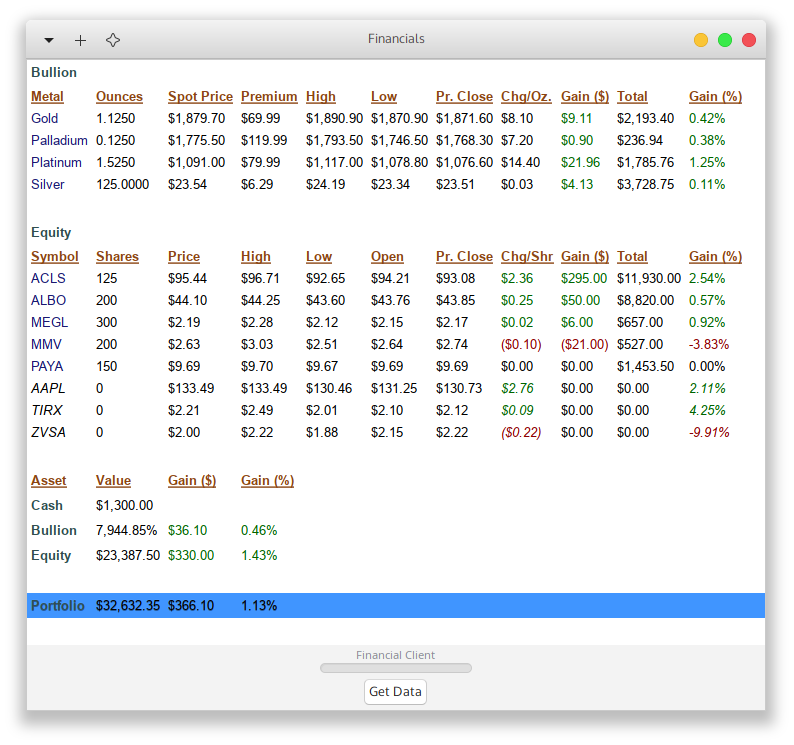
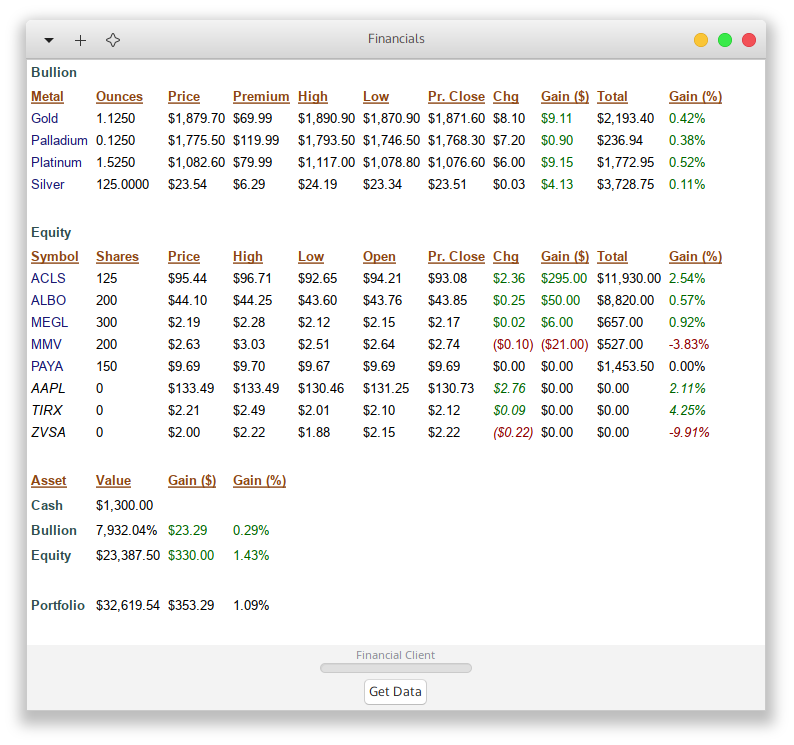
Combined two heading strings on primary view, changed one image file

diff --git a/src/class/class_meta.c b/src/class/class_meta.c
@@ -325,15 +325,11 @@ static void ToStringsIndices() {
    they match similar names within the struct definitions
    (in class_types.h). */
 static primary_heading primary_headings = {
-    "Bullion",    "Metal",     "Ounces",
-    "Spot Price", "Premium",   "High",
-    "Low",        "Pr. Close", "Chg/Oz.",
-    "Gain ($)",   "Total",     "Gain (%)",
-    "Gold",       "Silver",    "Platinum",
-    "Palladium",  "Equity",    "Symbol",
-    "Shares",     "Price",     "Open",
-    "Chg/Shr",    "Asset",     "Value",
-    "Cash",       "Portfolio", "Portfolio has no assets."};
+    "Bullion",  "Metal",     "Ounces", "Premium",   "High",
+    "Low",      "Pr. Close", "Chg",    "Gain ($)",  "Total",
+    "Gain (%)", "Gold",      "Silver", "Platinum",  "Palladium",
+    "Equity",   "Symbol",    "Shares", "Price",     "Open",
+    "Asset",    "Value",     "Cash",   "Portfolio", "Portfolio has no assets."};
 
 static default_heading default_headings = {"Bullion",
                                            "Metal",
@@ -352,93 +348,82 @@ static default_heading default_headings = {"Bullion",
 static void format_primary_headings_pango(primary_heading *pri_h_mkd) {
 
   StringToStrPango(&pri_h_mkd->bullion, primary_headings.bullion,
-                        HEADING_ASST_TYPE_FORMAT);
+                   HEADING_ASST_TYPE_FORMAT);
   StringToStrPango(&pri_h_mkd->metal, primary_headings.metal,
-                        HEADING_UNLN_FORMAT);
+                   HEADING_UNLN_FORMAT);
   StringToStrPango(&pri_h_mkd->ounces, primary_headings.ounces,
-                        HEADING_UNLN_FORMAT);
+                   HEADING_UNLN_FORMAT);
 
-  StringToStrPango(&pri_h_mkd->spot_price, primary_headings.spot_price,
-                        HEADING_UNLN_FORMAT);
   StringToStrPango(&pri_h_mkd->premium, primary_headings.premium,
-                        HEADING_UNLN_FORMAT);
+                   HEADING_UNLN_FORMAT);
   StringToStrPango(&pri_h_mkd->high, primary_headings.high,
-                        HEADING_UNLN_FORMAT);
-
-  StringToStrPango(&pri_h_mkd->low, primary_headings.low,
-                        HEADING_UNLN_FORMAT);
+                   HEADING_UNLN_FORMAT);
+  StringToStrPango(&pri_h_mkd->low, primary_headings.low, HEADING_UNLN_FORMAT);
   StringToStrPango(&pri_h_mkd->prev_closing, primary_headings.prev_closing,
-                        HEADING_UNLN_FORMAT);
-  StringToStrPango(&pri_h_mkd->chg_ounce, primary_headings.chg_ounce,
-                        HEADING_UNLN_FORMAT);
+                   HEADING_UNLN_FORMAT);
 
+  StringToStrPango(&pri_h_mkd->chg, primary_headings.chg, HEADING_UNLN_FORMAT);
   StringToStrPango(&pri_h_mkd->gain_sym, primary_headings.gain_sym,
-                        HEADING_UNLN_FORMAT);
+                   HEADING_UNLN_FORMAT);
   StringToStrPango(&pri_h_mkd->total, primary_headings.total,
-                        HEADING_UNLN_FORMAT);
-  StringToStrPango(&pri_h_mkd->gain_per, primary_headings.gain_per,
-                        HEADING_UNLN_FORMAT);
+                   HEADING_UNLN_FORMAT);
 
+  StringToStrPango(&pri_h_mkd->gain_per, primary_headings.gain_per,
+                   HEADING_UNLN_FORMAT);
   StringToStrPango(&pri_h_mkd->gold, primary_headings.gold, BLUE);
   StringToStrPango(&pri_h_mkd->silver, primary_headings.silver, BLUE);
+
   StringToStrPango(&pri_h_mkd->platinum, primary_headings.platinum, BLUE);
-
-  StringToStrPango(&pri_h_mkd->palladium, primary_headings.palladium,
-                        BLUE);
+  StringToStrPango(&pri_h_mkd->palladium, primary_headings.palladium, BLUE);
   StringToStrPango(&pri_h_mkd->equity, primary_headings.equity,
-                        HEADING_ASST_TYPE_FORMAT);
+                   HEADING_ASST_TYPE_FORMAT);
+
   StringToStrPango(&pri_h_mkd->symbol, primary_headings.symbol,
-                        HEADING_UNLN_FORMAT);
-
+                   HEADING_UNLN_FORMAT);
   StringToStrPango(&pri_h_mkd->shares, primary_headings.shares,
-                        HEADING_UNLN_FORMAT);
+                   HEADING_UNLN_FORMAT);
   StringToStrPango(&pri_h_mkd->price, primary_headings.price,
-                        HEADING_UNLN_FORMAT);
-  StringToStrPango(&pri_h_mkd->opening, primary_headings.opening,
-                        HEADING_UNLN_FORMAT);
+                   HEADING_UNLN_FORMAT);
 
-  StringToStrPango(&pri_h_mkd->chg_share, primary_headings.chg_share,
-                        HEADING_UNLN_FORMAT);
+  StringToStrPango(&pri_h_mkd->opening, primary_headings.opening,
+                   HEADING_UNLN_FORMAT);
   StringToStrPango(&pri_h_mkd->asset, primary_headings.asset,
-                        HEADING_UNLN_FORMAT);
+                   HEADING_UNLN_FORMAT);
   StringToStrPango(&pri_h_mkd->value, primary_headings.value,
-                        HEADING_UNLN_FORMAT);
+                   HEADING_UNLN_FORMAT);
 
   StringToStrPango(&pri_h_mkd->cash, primary_headings.cash,
-                        HEADING_ASST_TYPE_FORMAT);
+                   HEADING_ASST_TYPE_FORMAT);
   StringToStrPango(&pri_h_mkd->portfolio, primary_headings.portfolio,
-                        HEADING_ASST_TYPE_FORMAT);
-  StringToStrPango(&pri_h_mkd->no_assets, primary_headings.no_assets,
-                        BLUE);
+                   HEADING_ASST_TYPE_FORMAT);
+  StringToStrPango(&pri_h_mkd->no_assets, primary_headings.no_assets, BLUE);
 }
 
 static void format_default_headings_pango(default_heading *def_h_mkd) {
 
   StringToStrPango(&def_h_mkd->bullion, default_headings.bullion,
-                        HEADING_ASST_TYPE_FORMAT);
+                   HEADING_ASST_TYPE_FORMAT);
   StringToStrPango(&def_h_mkd->metal, default_headings.metal,
-                        HEADING_UNLN_FORMAT);
+                   HEADING_UNLN_FORMAT);
   StringToStrPango(&def_h_mkd->ounces, default_headings.ounces,
-                        HEADING_UNLN_FORMAT);
+                   HEADING_UNLN_FORMAT);
   StringToStrPango(&def_h_mkd->premium, default_headings.premium,
-                        HEADING_UNLN_FORMAT);
+                   HEADING_UNLN_FORMAT);
   StringToStrPango(&def_h_mkd->gold, default_headings.gold, BLUE);
   StringToStrPango(&def_h_mkd->silver, default_headings.silver, BLUE);
   StringToStrPango(&def_h_mkd->platinum, default_headings.platinum, BLUE);
-  StringToStrPango(&def_h_mkd->palladium, default_headings.palladium,
-                        BLUE);
+  StringToStrPango(&def_h_mkd->palladium, default_headings.palladium, BLUE);
 
   StringToStrPango(&def_h_mkd->equity, default_headings.equity,
-                        HEADING_ASST_TYPE_FORMAT);
+                   HEADING_ASST_TYPE_FORMAT);
   StringToStrPango(&def_h_mkd->symbol, default_headings.symbol,
-                        HEADING_UNLN_FORMAT);
+                   HEADING_UNLN_FORMAT);
   StringToStrPango(&def_h_mkd->shares, default_headings.shares,
-                        HEADING_UNLN_FORMAT);
+                   HEADING_UNLN_FORMAT);
 
   StringToStrPango(&def_h_mkd->cash, default_headings.cash,
-                        HEADING_ASST_TYPE_FORMAT);
-  StringToStrPango(&def_h_mkd->no_assets, default_headings.no_assets,
-                        BLUE);
+                   HEADING_ASST_TYPE_FORMAT);
+  StringToStrPango(&def_h_mkd->no_assets, default_headings.no_assets, BLUE);
 }
 
 static void free_primary_headings(primary_heading *pri_h_mkd) {
@@ -446,36 +431,34 @@ static void free_primary_headings(primary_heading *pri_h_mkd) {
   free(pri_h_mkd->metal);
   free(pri_h_mkd->ounces);
 
-  free(pri_h_mkd->spot_price);
   free(pri_h_mkd->premium);
   free(pri_h_mkd->high);
-
   free(pri_h_mkd->low);
-  free(pri_h_mkd->prev_closing);
-  free(pri_h_mkd->chg_ounce);
 
+  free(pri_h_mkd->prev_closing);
+  free(pri_h_mkd->chg);
   free(pri_h_mkd->gain_sym);
+
   free(pri_h_mkd->total);
   free(pri_h_mkd->gain_per);
-
   free(pri_h_mkd->gold);
+
   free(pri_h_mkd->silver);
   free(pri_h_mkd->platinum);
-
   free(pri_h_mkd->palladium);
+
   free(pri_h_mkd->equity);
   free(pri_h_mkd->symbol);
-
   free(pri_h_mkd->shares);
+
   free(pri_h_mkd->price);
   free(pri_h_mkd->opening);
-
-  free(pri_h_mkd->chg_share);
   free(pri_h_mkd->asset);
-  free(pri_h_mkd->value);
 
+  free(pri_h_mkd->value);
   free(pri_h_mkd->cash);
   free(pri_h_mkd->portfolio);
+
   free(pri_h_mkd->no_assets);
 }
 

diff --git a/src/class/class_equity.c b/src/class/class_equity.c
@@ -117,7 +117,7 @@ static void convert_equity_to_strings(stock *S, unsigned short digits_right) {
     }
 
     StringToStrPango(&S->symbol_stock_mrkd_ch, S->symbol_stock_ch,
-                          BLACK_ITALIC);
+                     BLACK_ITALIC);
     break;
   default:
 
@@ -344,7 +344,8 @@ static void AddStock(const char *symbol, const char *shares)
   F->Equity[F->size]->num_shares_stock_int =
       (unsigned int)strtol(shares ? shares : "0", NULL, 10);
   DoubleToFormattedStrPango(&F->Equity[F->size]->num_shares_stock_mrkd_ch,
-                      (double)F->Equity[F->size]->num_shares_stock_int, 0, NUM_STR, BLACK);
+                            (double)F->Equity[F->size]->num_shares_stock_int, 0,
+                            NUM_STR, BLACK);
 
   /* Add The Stock Symbol To the stock object */
   /* This string is used to process the stock. */
@@ -354,11 +355,10 @@ static void AddStock(const char *symbol, const char *shares)
     /* This string is used on TreeViews. */
   case 0:
     StringToStrPango(&F->Equity[F->size]->symbol_stock_mrkd_ch, symbol,
-                          BLACK_ITALIC);
+                     BLACK_ITALIC);
     break;
   default:
-    StringToStrPango(&F->Equity[F->size]->symbol_stock_mrkd_ch, symbol,
-                          BLUE);
+    StringToStrPango(&F->Equity[F->size]->symbol_stock_mrkd_ch, symbol, BLUE);
     break;
   }
   F->size++;
@@ -480,10 +480,10 @@ static void SetSecurityNames(void *data) {
 
     if (F->Equity[g]->num_shares_stock_int) {
       StringToStrPango(&F->Equity[g]->security_name_mrkd_ch,
-                            security_name ? security_name : "", BLUE);
+                       security_name ? security_name : "", BLUE);
     } else {
       StringToStrPango(&F->Equity[g]->security_name_mrkd_ch,
-                            security_name ? security_name : "", BLACK_ITALIC);
+                       security_name ? security_name : "", BLACK_ITALIC);
     }
 
     if (security_name) {

diff --git a/src/gui/gui_main.c b/src/gui/gui_main.c
@@ -212,12 +212,11 @@ static GtkListStore *main_primary_store(void *data) {
     gtk_list_store_set(
         store, &iter, GUI_TYPE, "bullion_total", GUI_SYMBOL, "", GUI_COLUMN_ONE,
         pri_h_mkd->metal, GUI_COLUMN_TWO, pri_h_mkd->ounces, GUI_COLUMN_THREE,
-        pri_h_mkd->spot_price, GUI_COLUMN_FOUR, pri_h_mkd->premium,
-        GUI_COLUMN_FIVE, pri_h_mkd->high, GUI_COLUMN_SIX, pri_h_mkd->low,
-        GUI_COLUMN_SEVEN, pri_h_mkd->prev_closing, GUI_COLUMN_EIGHT,
-        pri_h_mkd->chg_ounce, GUI_COLUMN_NINE, pri_h_mkd->gain_sym,
-        GUI_COLUMN_TEN, pri_h_mkd->total, GUI_COLUMN_ELEVEN,
-        pri_h_mkd->gain_per, -1);
+        pri_h_mkd->price, GUI_COLUMN_FOUR, pri_h_mkd->premium, GUI_COLUMN_FIVE,
+        pri_h_mkd->high, GUI_COLUMN_SIX, pri_h_mkd->low, GUI_COLUMN_SEVEN,
+        pri_h_mkd->prev_closing, GUI_COLUMN_EIGHT, pri_h_mkd->chg,
+        GUI_COLUMN_NINE, pri_h_mkd->gain_sym, GUI_COLUMN_TEN, pri_h_mkd->total,
+        GUI_COLUMN_ELEVEN, pri_h_mkd->gain_per, -1);
 
     if (M->Gold->ounce_f) {
       gtk_list_store_append(store, &iter);
@@ -304,7 +303,7 @@ static GtkListStore *main_primary_store(void *data) {
         pri_h_mkd->symbol, GUI_COLUMN_TWO, pri_h_mkd->shares, GUI_COLUMN_THREE,
         pri_h_mkd->price, GUI_COLUMN_FOUR, pri_h_mkd->high, GUI_COLUMN_FIVE,
         pri_h_mkd->low, GUI_COLUMN_SIX, pri_h_mkd->opening, GUI_COLUMN_SEVEN,
-        pri_h_mkd->prev_closing, GUI_COLUMN_EIGHT, pri_h_mkd->chg_share,
+        pri_h_mkd->prev_closing, GUI_COLUMN_EIGHT, pri_h_mkd->chg,
         GUI_COLUMN_NINE, pri_h_mkd->gain_sym, GUI_COLUMN_TEN, pri_h_mkd->total,
         GUI_COLUMN_ELEVEN, pri_h_mkd->gain_per, -1);
 

diff --git a/src/gui/gui_rsi.c b/src/gui/gui_rsi.c
@@ -295,16 +295,16 @@ static bool rsi_calculate(char *line, rsi_strings *strings, int state) {
   }
 
   StringToStrPango(&strings->date_ch,
-                        csv_array[0] ? csv_array[0] : "0000-00-00", CHOCOLATE);
+                   csv_array[0] ? csv_array[0] : "0000-00-00", CHOCOLATE);
   DoubleToFormattedStrPango(&strings->prev_closing_ch, prev_price_f, 2, MON_STR,
                             BLACK);
   DoubleToFormattedStrPango(&strings->price_ch, cur_price_f, 2, MON_STR, BLACK);
   StringToStrPango(&strings->high_ch, csv_array[2] ? csv_array[2] : "0",
-                        STR_TO_MON_STR);
+                   STR_TO_MON_STR);
   StringToStrPango(&strings->low_ch, csv_array[3] ? csv_array[3] : "0",
-                        STR_TO_MON_STR);
+                   STR_TO_MON_STR);
   StringToStrPango(&strings->opening_ch, csv_array[1] ? csv_array[1] : "0",
-                        STR_TO_MON_STR);
+                   STR_TO_MON_STR);
   change_f = cur_price_f - prev_price_f;
   if (change_f > 0) {
     DoubleToFormattedStrPango(&strings->change_ch, change_f, 2, MON_STR, GREEN);

diff --git a/src/include/class_types.h b/src/include/class_types.h
@@ -71,12 +71,11 @@ typedef struct {
   char *bullion;
   char *metal;
   char *ounces;
-  char *spot_price;
   char *premium;
   char *high;
   char *low;
   char *prev_closing;
-  char *chg_ounce;
+  char *chg;
   char *gain_sym;
   char *total;
   char *gain_per;
@@ -89,7 +88,6 @@ typedef struct {
   char *shares;
   char *price;
   char *opening;
-  char *chg_share;
   char *asset;
   char *value;
   char *cash;

diff --git a/src/gui/gui_callbacks.c b/src/gui/gui_callbacks.c
@@ -221,8 +221,7 @@ void GUICallbackHandler_pref_font_button(GtkFontButton *widget, void *data) {
   pthread_t thread_id;
 
   free(D->main_font_ch);
-  D->main_font_ch =
-      gtk_font_chooser_get_font(GTK_FONT_CHOOSER(widget));
+  D->main_font_ch = gtk_font_chooser_get_font(GTK_FONT_CHOOSER(widget));
   /* Set the pango_formatting.c font variable. */
   SetFont(D->main_font_ch);
 

diff --git a/src/gui/gui_threads.c b/src/gui/gui_threads.c
@@ -189,7 +189,7 @@ static void *main_fetch_data_thd(void *data) {
   looping_time(&end_time, &current_time, &seconds_per_iteration, pkg);
 
   while (end_time > current_time) {
-    time(&start_curl);    
+    time(&start_curl);
 
     /* This mutex prevents the program from crashing if an
        MAIN_EXIT, EQUITY_OK_BTN, or API_OK_BTN thread is run
